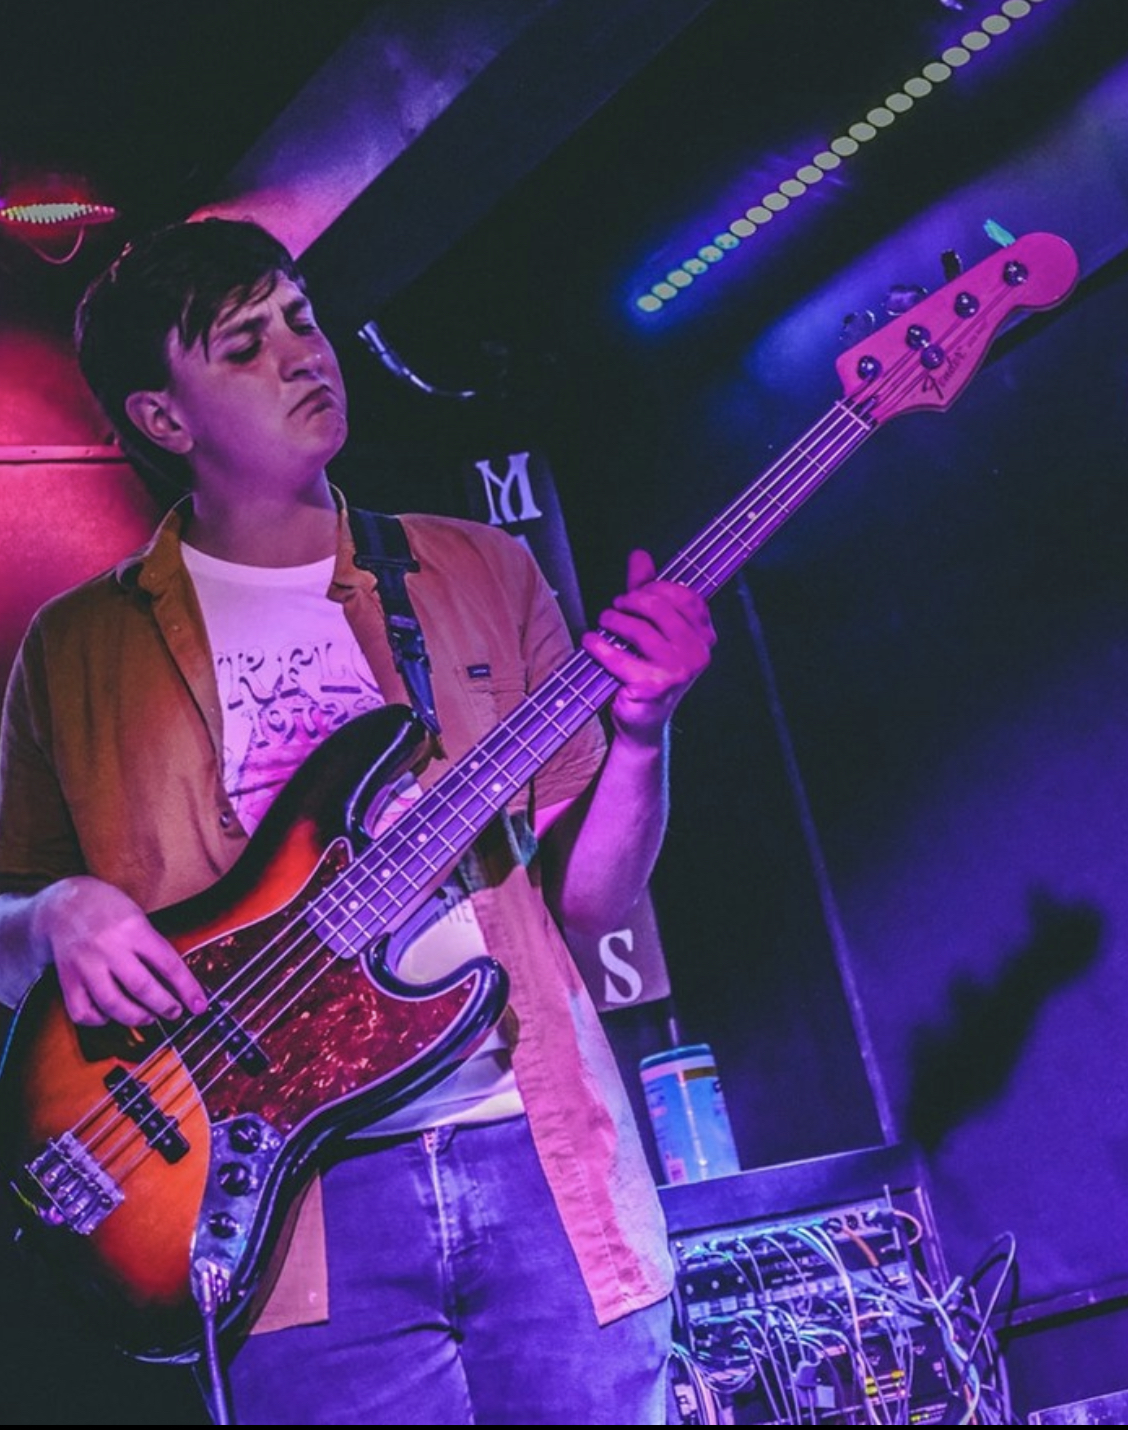
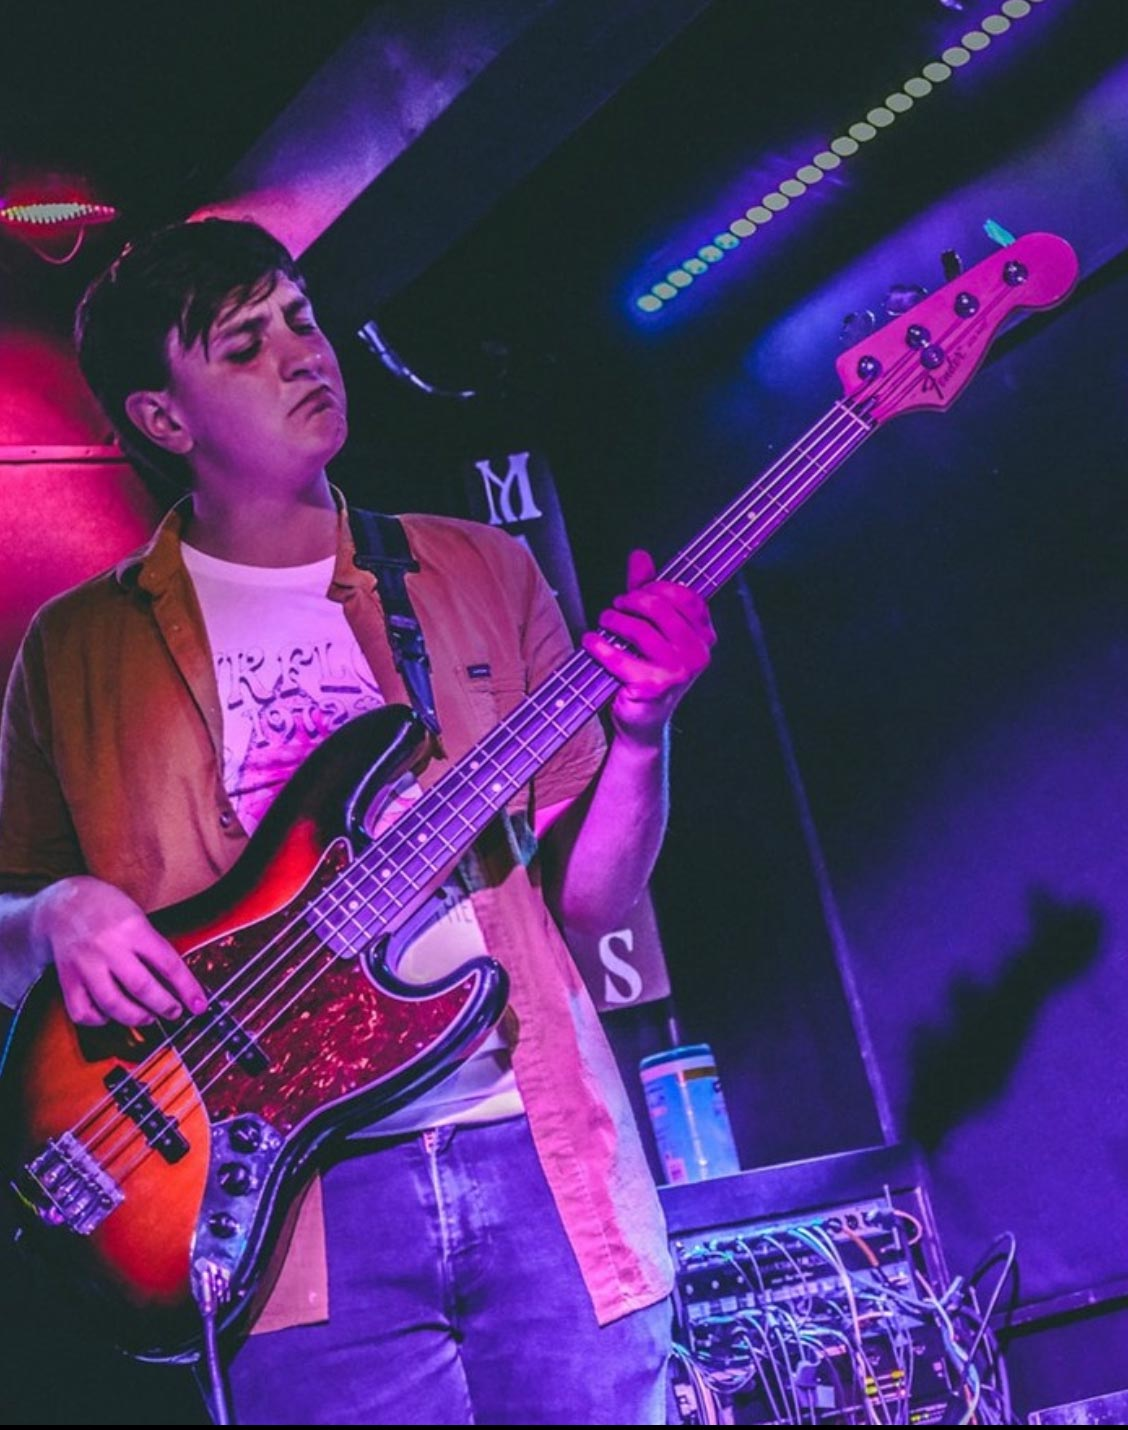
Fix images

diff --git a/src/components/AboutPage.vue b/src/components/AboutPage.vue
@@ -4,12 +4,12 @@
       <div class="col-lg-8 mx-auto">
         <h1 class="mb-4 mt-2">About Me</h1>
 
-        <img src="/img/ChrisPecMusic.png" alt="Your Image" class="img-fluid mb-4 w-50 mx-auto d-block rounded mb-5">
+        <img src="/img/ChrisPecMusicSmall.jpg" alt="Your Image" class="img-fluid mb-4 w-50 mx-auto d-block rounded mb-5">
 
         <h3>Experience</h3>
         <p>Hi, I'm Chris Pecoraro, a bass player with over 10 years of experience playing in a variety of musical settings. My background spans blues bands, jazz combos, show bands, and orchestras, and I earned my music minor from the University of Minnesota.</p>
         
-        <img src="/img/UMN.png" alt="University of Minnesota Bass" class="img-fluid mb-4 w-50 mx-auto d-block rounded mb-5">
+        <img src="/img/UMN.jpg" alt="University of Minnesota Bass" class="img-fluid mb-4 w-50 mx-auto d-block rounded mb-5">
 
         <h3>Influences</h3>
         <p>While my playing style is rooted in retro soul, I'm versatile and can play a range of genres, including pop, blues, rock, jazz, and funk. My influences include Jaco Pastorius, Pino Palladino, and Oteil Burbridge, all of whom have shaped my unique approach to the bass.</p>
@@ -23,7 +23,7 @@
         <h3>Current Projects</h3>
         <p>Currently, I play with the <a href="https://www.seanmckeeband.com" target="_blank">Sean McKee Band</a>, winners of the Chicago portion of the 2023 International Blues Challenge. I'm passionate about collaborating with other musicians, both in person and remotely, and I always look for opportunities to contribute to new projects.</p>
         
-        <img src="img/SeanMcKeeBand.jpeg" alt="Sean Mckee Band" class="img-fluid mb-4 w-50 mx-auto d-block rounded mb-5">
+        <img src="img/SeanMcKeeBand.jpg" alt="Sean Mckee Band" class="img-fluid mb-4 mx-auto w-75 d-block rounded mb-5">
 
         <h3>Work with Me</h3>
         <p>If you'd like to work together, whether it's for a recording session, live performance, or another musical project, I'd love to hear from you. Let's make some great music.</p>

diff --git a/src/components/ServicesPage.vue b/src/components/ServicesPage.vue
@@ -9,10 +9,10 @@
           </router-link>
         </div>
       <div class="row">
-        <div class="col-md-6 mb-4">
+        <div class="col-md-4 offset-md-2 mb-4">
           <div class="card service bg-light-blue">
             <div class="p-2">
-                <img class="card-img-top service-image rounded" src="img/studio.png" alt="Studio Sessions" />
+                <img class="card-img-top service-image rounded" src="img/studio.jpg" alt="Studio Sessions" />
             </div>
             <div class="card-body d-flex flex-column">
               <h2 class="card-title">Studio Sessions</h2>
@@ -21,7 +21,7 @@
             </div>
           </div>
         </div>
-        <div class="col-md-6 mb-4">
+        <div class="col-md-4 mb-4">
           <div class="card service bg-light-blue">
               <div class="p-2">
                 <img class="card-img-top service-image rounded" src="img/live-performances.jpg" alt="Live Performances" />

diff --git a/src/components/HomePage.vue b/src/components/HomePage.vue
@@ -106,7 +106,7 @@ export default {
 
 .hero-image {
   height: 90vh;
-  background-image: linear-gradient(to right, rgba(0, 0, 0, 1), rgba(0, 0, 0, 0)), url("../../public/img/ChrisPecMusic.png");
+  background-image: linear-gradient(to right, rgba(0, 0, 0, 1), rgba(0, 0, 0, 0)), url("../../public/img/ChrisPecMusic.jpg");
   background-position: center right;
   background-repeat: no-repeat;
   background-size: cover;
